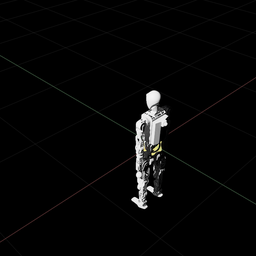
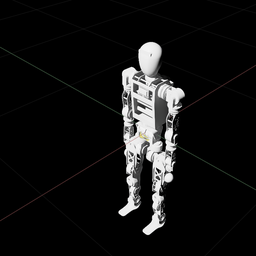
edit: init joint pos

diff --git a/source/isaaclab_assets/isaaclab_assets/robots/hanu.py b/source/isaaclab_assets/isaaclab_assets/robots/hanu.py
@@ -177,9 +177,23 @@ HANU_A1_CFG = ArticulationCfg(
         ),
     ),
     init_state=ArticulationCfg.InitialStateCfg(
-        pos=(0.0, 0.0, 0.9),  # (x, y, z)
-        # rot=(1.0, 1.0, 0.0, 0.0),  # (w, x, y, z)
-        joint_pos={".*": 0.0},
+        pos=(0.0, 0.0, 0.95),  # (x, y, z)
+        rot=(0.707, 0.0, 0.0, 0.707),  # (w, x, y, z)
+        # joint_pos={".*": 0.0},
+        joint_pos={
+            "LL1_Groin_to_LL2_Buttock_Pitch": -0.17,
+            "RL1_Groin_to_RL2_Buttock_Pitch": -0.17,
+            "LL3_Thigh_to_LL4_Calf_Pitch": 0.23,
+            "RL3_Thigh_to_RL4_Calf_Pitch": 0.23,
+            "LL4_Calf_to_LL5_ankle_Pitch": -0.15,
+            "RL4_Calf_to_RL5_ankle_Pitch": -0.15,
+            "torso_to_LA1_Shoulder_Pitch": -0.37,
+            "torso_to_RA1_Shoulder_Pitch": -0.37,
+            "LA1_Shoulder_to_LA2_Shoulder_Roll": 0.16,
+            "RA1_Shoulder_to_RA2_Shoulder_Roll": 0.16,
+            "LA3_Upper_Arm_to_LA4_Lower_Arm_Pitch": -0.8,
+            "RA3_Upper_Arm_to_RA4_Lower_Arm_Pitch": -0.8,
+        },
         joint_vel={".*": 0.0},
     ),
     soft_joint_pos_limit_factor=0.9,
@@ -211,12 +225,10 @@ HANU_A1_CFG = ArticulationCfg(
                 "LL2_Buttock_to_LL3_Thigh_Roll",
                 "LL3_Thigh_to_LL4_Calf_Pitch",
                 "LL4_Calf_to_LL5_ankle_Pitch",
-                "LL5_ankle_to_LL6_Foot_Roll",
                 "RL1_Groin_to_RL2_Buttock_Pitch",
                 "RL2_Buttock_to_RL3_Thigh_Roll",
                 "RL3_Thigh_to_RL4_Calf_Pitch",
                 "RL4_Calf_to_RL5_ankle_Pitch",
-                "RL5_ankle_to_RL6_Foot_Roll",
                 "hip_to_LL1_Groin_Yaw",
                 "hip_to_RL1_Groin_Yaw",
             ],
@@ -226,6 +238,15 @@ HANU_A1_CFG = ArticulationCfg(
             damping=10.0,
             # armature=0.01,
         ),
+        "feet": ImplicitActuatorCfg(
+            joint_names_expr=[
+                "LL5_ankle_to_LL6_Foot_Roll",
+                "RL5_ankle_to_RL6_Foot_Roll",
+            ]
+            effort_limit=20,
+            stiffness=20.0,
+            damping=5.0,
+        )
         "torso": ImplicitActuatorCfg(
             joint_names_expr=[
                 "abdomen_to_hip_Pitch",

diff --git a/source/isaaclab_assets/isaaclab_assets/robots/unitree.py b/source/isaaclab_assets/isaaclab_assets/robots/unitree.py
@@ -303,6 +303,7 @@ G1_CFG = ArticulationCfg(
             "left_two_joint": 0.52,
             "right_two_joint": -0.52,
         },
+        # joint_pos={".*": 0.0},
         joint_vel={".*": 0.0},
     ),
     soft_joint_pos_limit_factor=0.9,
